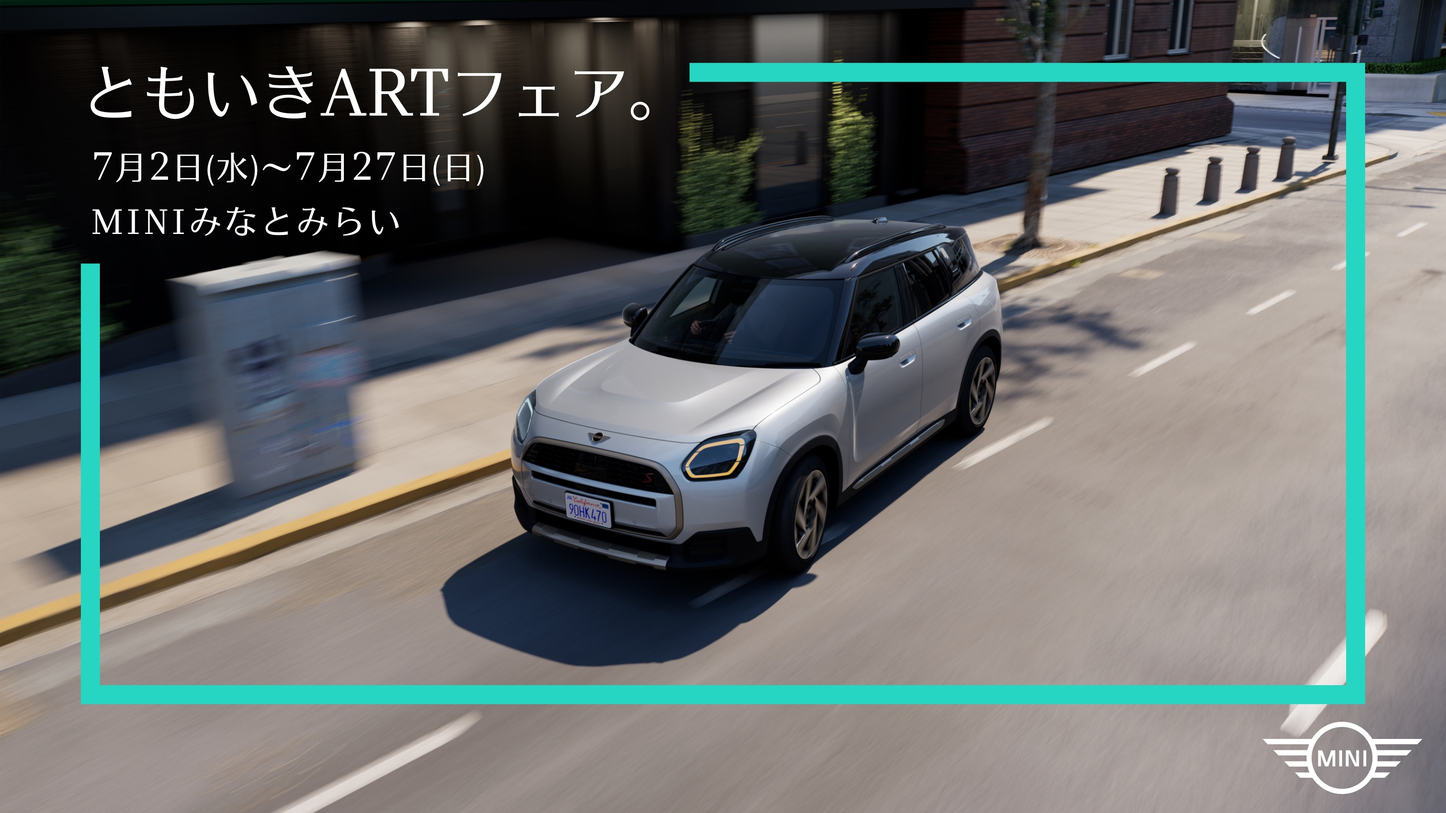
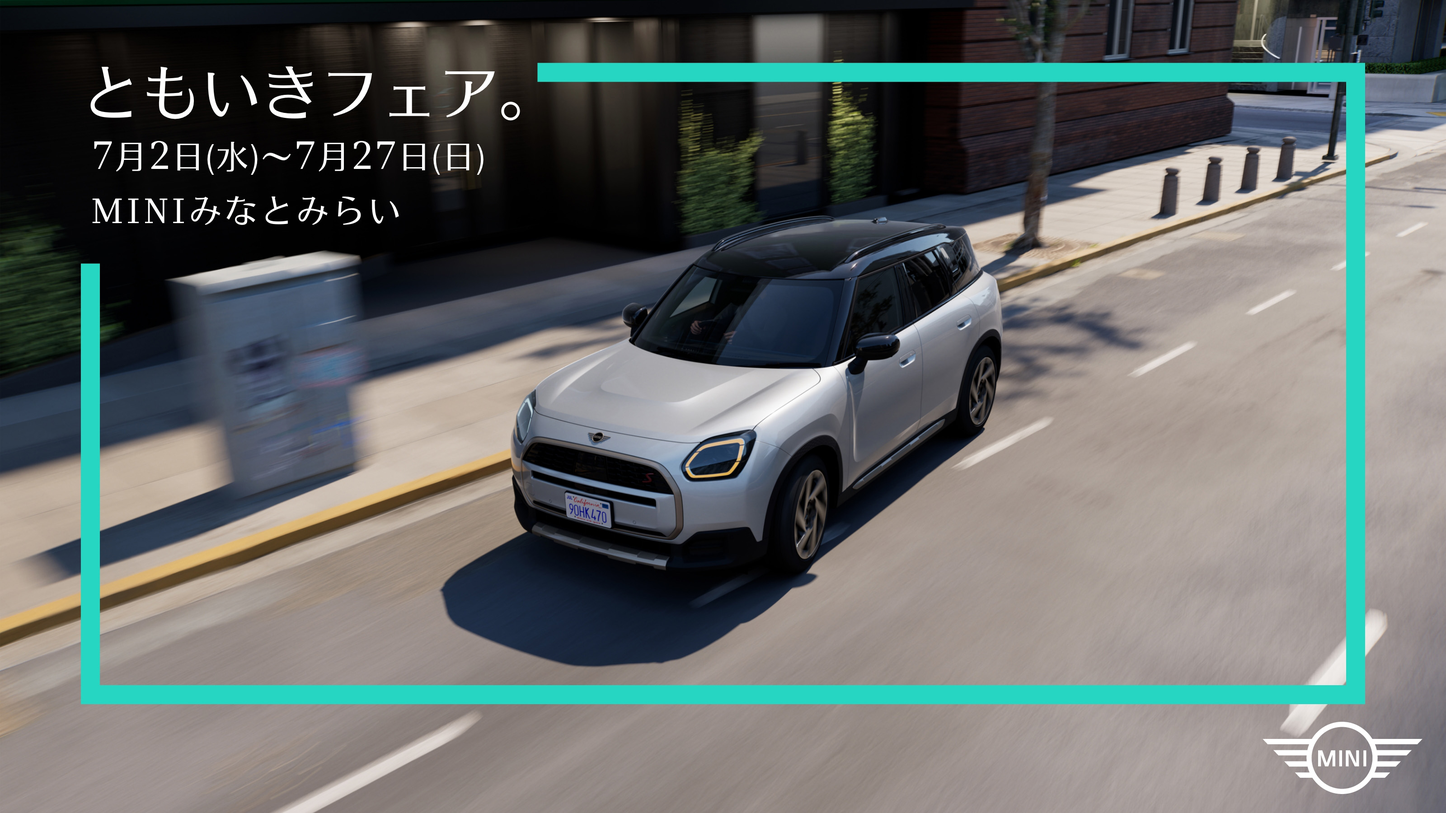
no message

Changed region(s): [[0.0625, 0.0622, 0.5, 0.28]]

diff --git a/250702MINI/index.html b/250702MINI/index.html
@@ -13,10 +13,10 @@ j=d.createElement(s),dl=l!='dataLayer'?'&l='+l:'';j.async=true;j.src=
 <meta http-equiv="Content-Language" content="ja">
 <meta http-equiv="X-UA-Compatible" content="IE=edge,chrome=1">
 <meta name="viewport" content="width=device-width,initial-scale=1.0">
-<meta name="keywords" content="ともいきARTフェア,ウエインズインポートカーズ,神奈川,MINI 港南台,MINI 湘南,MINI みなとみらい,MINI,mini,ミニ,正規ディーラー,新車">
-<meta name="description" content="ともいきARTフェア | ウエインズインポートカーズ | 神奈川県にてBMW、MINI車の新車販売、整備、用品販売、認定中古車販売をしております。">
+<meta name="keywords" content="ともいきフェア,ウエインズインポートカーズ,神奈川,MINI 港南台,MINI 湘南,MINI みなとみらい,MINI,mini,ミニ,正規ディーラー,新車">
+<meta name="description" content="ともいきフェア | ウエインズインポートカーズ | 神奈川県にてBMW、MINI車の新車販売、整備、用品販売、認定中古車販売をしております。">
     
-<title>ともいきARTフェア | ウエインズインポートカーズ | MINI 正規ディーラー</title>
+<title>ともいきフェア | ウエインズインポートカーズ | MINI 正規ディーラー</title>
 
 <link rel="stylesheet" media="all" href="./static/css/style.css">
 <link rel="stylesheet" media="all" href="./static/css/slick.css">
@@ -63,9 +63,9 @@ height="0" width="0" style="display:none;visibility:hidden"></iframe></noscript>
         <ul class="list">
           <li>
             <p class="txt01">MINI みなとみらい</p>
-            <p class="txt02">ともいき ART フェア。</p>
+            <p class="txt02">ともいきフェア。</p>
             <p class="day">フェア期間：<span class="num">7.2</span><span class="week">水</span>〜<span class="num">7.27</span><span class="week">日</span></p>
-            <p class="info">MINIみなとみらいでは、神奈川県の「ともに生きる社会かながわ推進週間」にあわせてアートフェアを開催。<br><br>期間中は障がい者アーティストの作品を展示いたします。<br>MINIとアートが出会う特別な時間を体感してください。</p>
+            <p class="info">MINIみなとみらいでは、神奈川県の「ともに生きる社会かながわ推進週間」にあわせてフェアを開催。<br><br>期間中は障がい者アーティストの作品を展示いたします。<br>MINIとアートが出会う特別な時間を体感してください。</p>
             <p class="mini">一部の車種では、お盆休み前に納車可能なモデルを若干数ご用意しております。</p>
           </li>
           <li>
